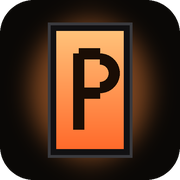
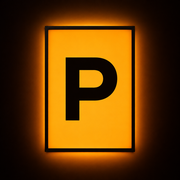
Фавикон из Higgsfield

diff --git a/index.html b/index.html
@@ -6,7 +6,7 @@
 <title>PROSWET — световая рамка для постеров</title>
 <link rel="preconnect" href="https://fonts.googleapis.com"><link rel="preconnect" href="https://fonts.gstatic.com" crossorigin>
 <link href="https://fonts.googleapis.com/css2?family=Inter:opsz,wght@14..32,400..600&family=Oswald:wght@500..700&display=swap" rel="stylesheet">
-<link rel="icon" href="favicon.svg" type="image/svg+xml">
+<link rel="icon" href="favicon.png" type="image/png" sizes="192x192">
 <link rel="icon" href="favicon.ico" sizes="32x32">
 <link rel="apple-touch-icon" href="apple-touch-icon.png">
 <meta name="theme-color" content="#0a0806">
